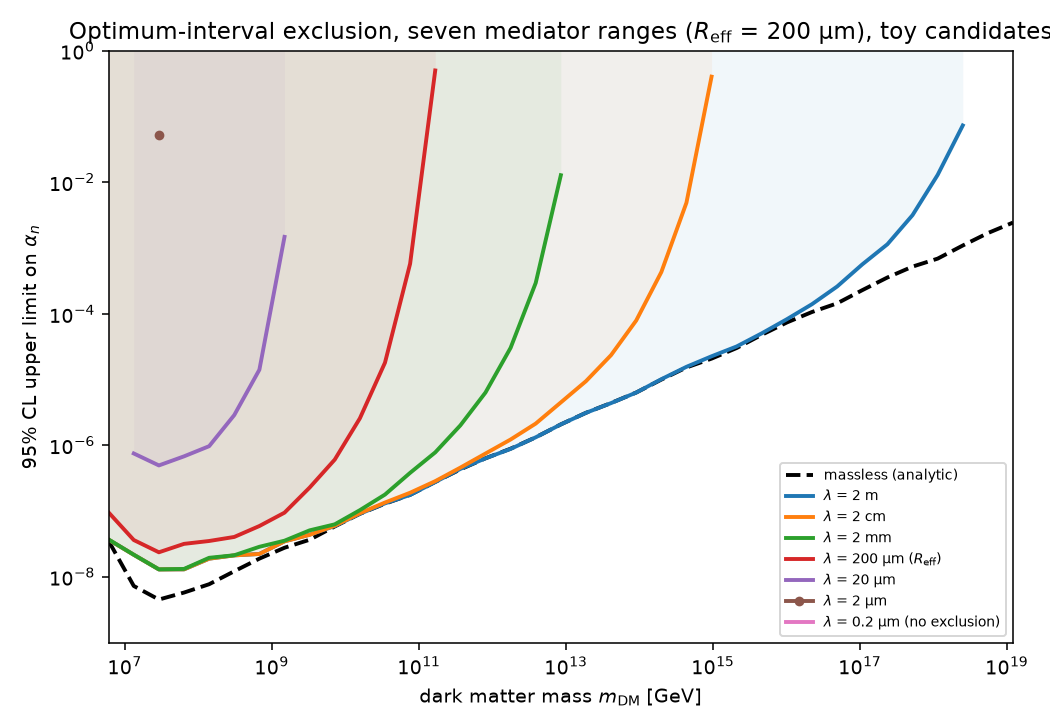
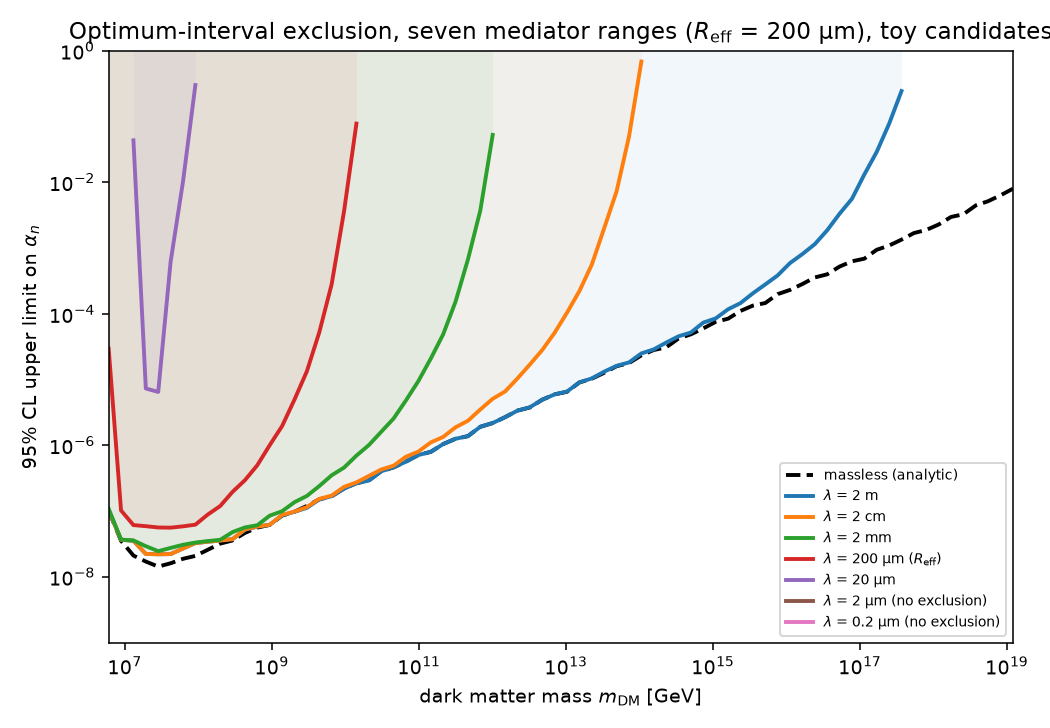
DM fraction f_X = 0.1 in the rate (both UHDM examples); align rho to 0.3 GeV/cm^3; 74 mass samples

diff --git a/examples/uhdm_momentum_kicks.py b/examples/uhdm_momentum_kicks.py
@@ -41,7 +41,8 @@ from optimum_interval import (
 C_KM_S = 299792.458
 V0 = 220.0 / C_KM_S  # halo velocity dispersion parameter
 VESC = 544.0 / C_KM_S  # galactic escape velocity
-RHO_DM = 3.07e-42  # local DM density, 0.4 GeV/cm^3 in GeV^4
+RHO_DM = 2.3e-42  # total local DM density, 0.3 GeV/cm^3 in GeV^4
+F_X = 0.1  # fraction of local DM in this species (evades self-interaction constraints)
 GEV_PER_S = 1.519e24  # 1 GeV of rate = 1.519e24 s^-1  (hbar = 1)
 
 Q_TH = 8400.0  # momentum threshold [GeV]  (~4.5e-15 kg m/s)
@@ -69,7 +70,7 @@ def drdq_alpha1(q, m_dm):
     Maxwell-Boltzmann halo; natural units throughout.
     """
     q = np.asarray(q, dtype=float)
-    n_dm = RHO_DM / m_dm
+    n_dm = F_X * RHO_DM / m_dm  # this species is a fraction f_X of local DM
     velocity_factor = np.exp(-((q / (2.0 * m_dm * V0)) ** 2)) - np.exp(
         -((VESC / V0) ** 2)
     )